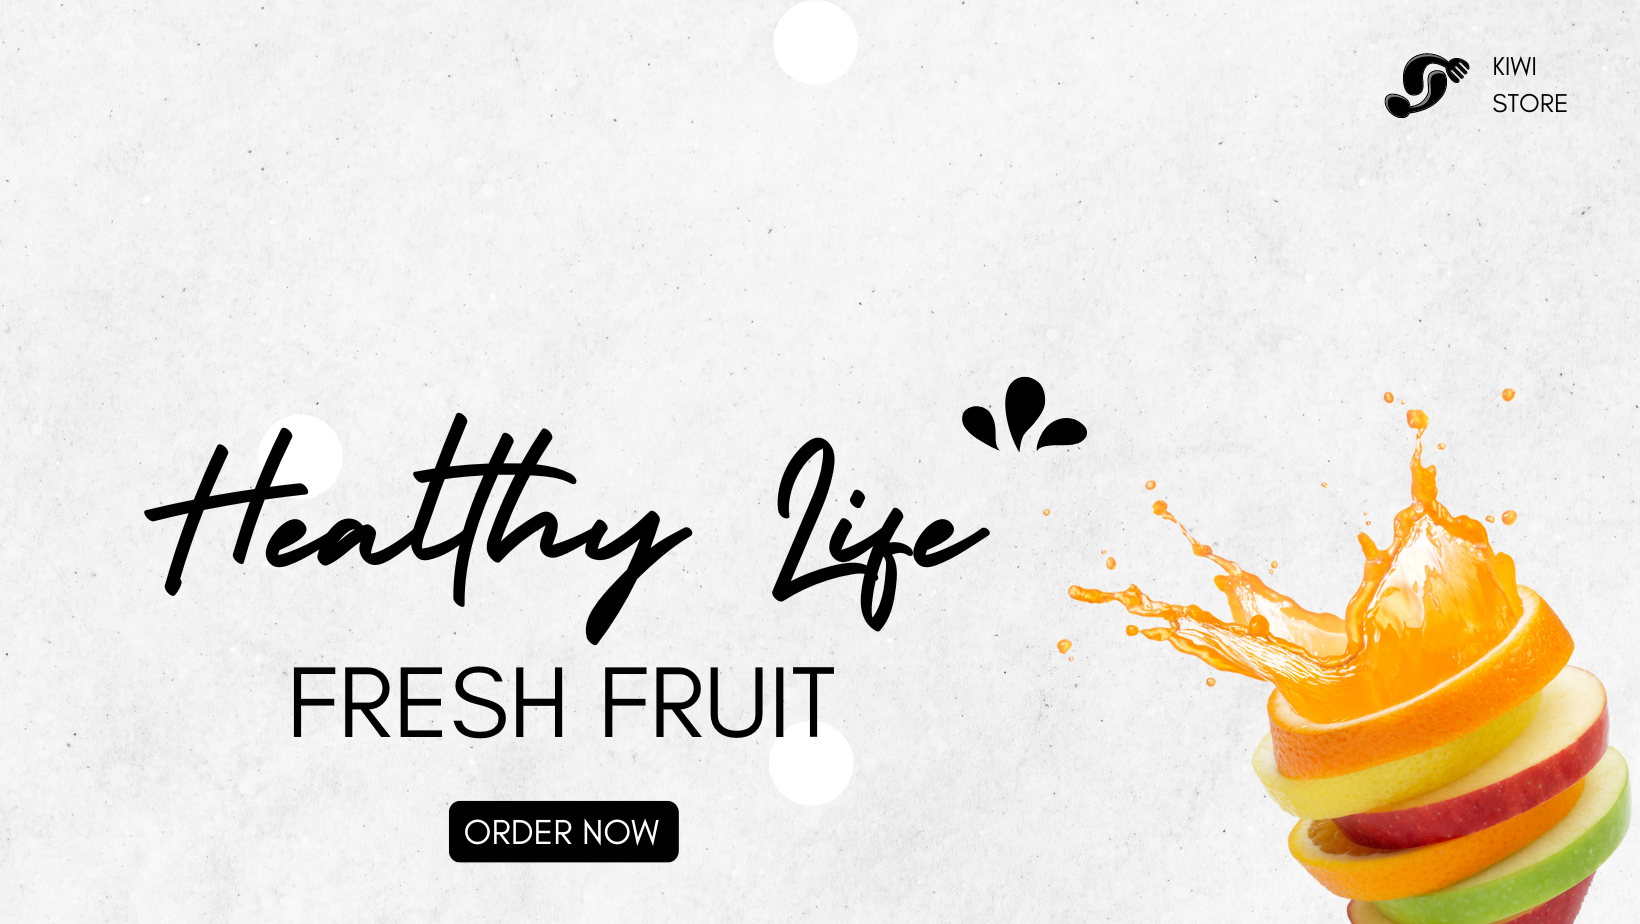
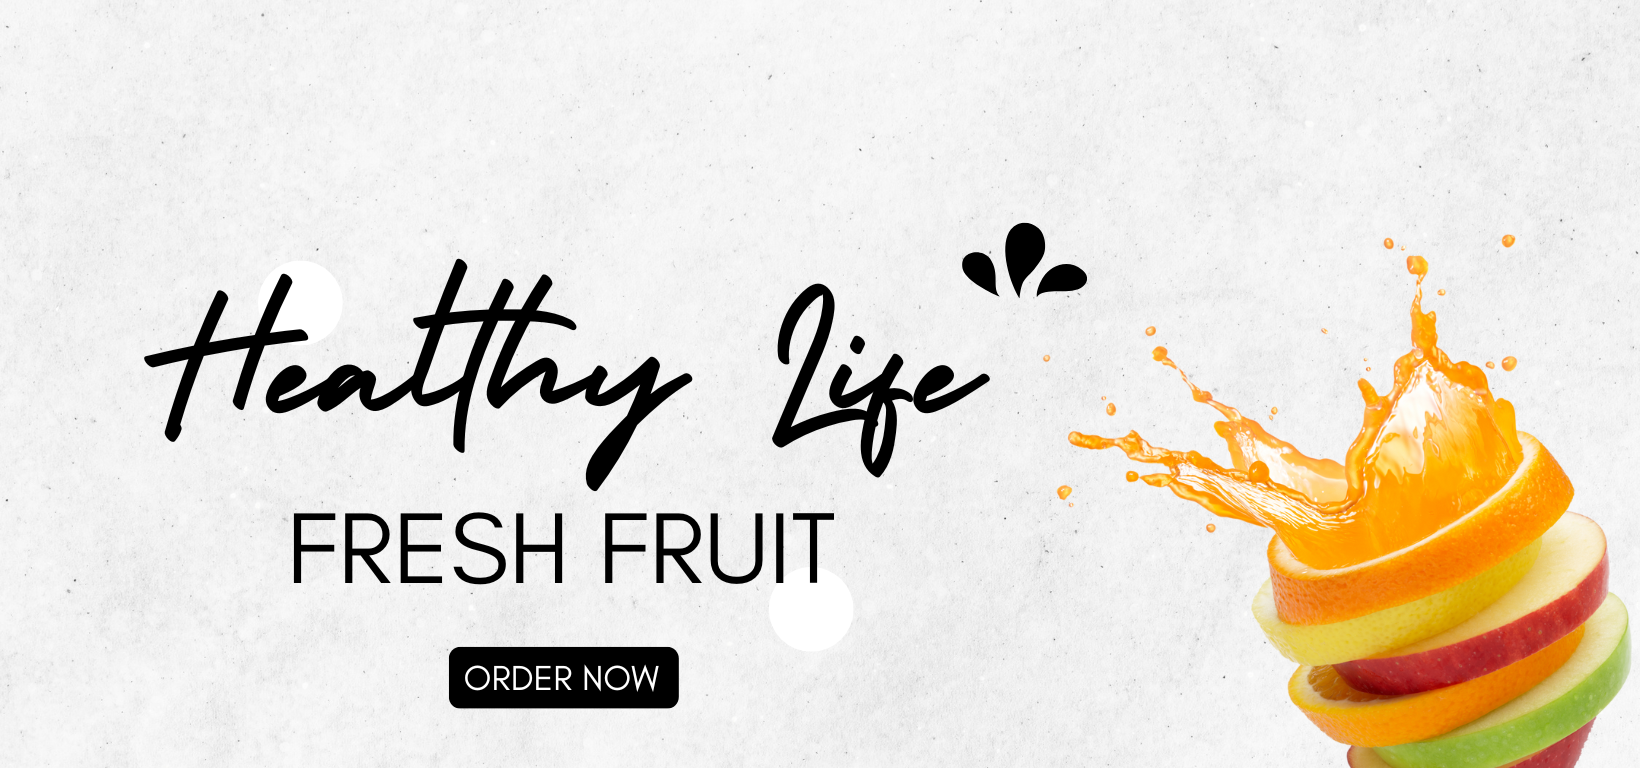
carousel

diff --git a/html/TrangChu.html b/html/TrangChu.html
@@ -43,9 +43,9 @@
                 </div>
             </nav>
             <div class="respon-navbar">
-                <label for="nav-ipad-input" class="menu-btn">  <i class="fa-solid fa-bars"></i></label>
-                <input type="checkbox"class="nav-input" id="nav-ipad-input">
-                <label for="nav-ipad-input"  class="nav-overlay"></label>
+                <label for="nav-ipad-input" class="menu-btn"> <i class="fa-solid fa-bars"></i></label>
+                <input type="checkbox" class="nav-input" id="nav-ipad-input">
+                <label for="nav-ipad-input" class="nav-overlay"></label>
                 <div class="nav-ipad">
                     <label for="nav-ipad-input" class="icon-close"><i class="fa-solid fa-xmark"></i></label>
                     <ul class="navbar_ipad-list">
@@ -57,30 +57,30 @@
             </div>
         </div>
         <div class="wrapper">
-            <!-- <div class="banner">
-                <div class="banner1">
-                    <img src="" alt="">
-                </div>
-                <div class="banner2"></div>
-                <div class="banner3"> </div>
-            </div> -->
-            <div id="carousel-simple" class="carousel slide" data-ride="carousel" >
+            <!-- carousel -->
+            <div id="carousel-simple" class="carousel slide" data-ride="carousel">
                 <ul class="carousel-indicators">
                     <li data-target="#carousel-simple" data-slide-to="0" class="active"></li>
                     <li data-target="#carousel-simple" data-slide-to="1"></li>
                     <li data-target="#carousel-simple" data-slide-to="2"></li>
-                  </ul>
+                </ul>
                 <div class="carousel-inner">
                     <div class="carousel-item active">
-                        <img class="d-block w-100" src="../images/kiwistore.png" alt="" height="600px">
+                        <img class="d-block w-100" src="../images/TrangChu/kiwistore.png" alt="" height="650px">
                     </div>
                     <div class="carousel-item">
-                        <img class="d-block w-100" src="../images/kiwistore1.png" alt="" height="600px">
+                        <img class="d-block w-100" src="../images/TrangChu/kiwistore1.png" alt="" height="650px">
                     </div>
                     <div class="carousel-item">
-                        <img class="d-block w-100" src="../images/kiwistore2.jpg" alt="" height="600px">
+                        <img class="d-block w-100" src="../images/TrangChu/kiwistore2.jpg" alt="" height="650px">
                     </div>
                 </div>
+                <a class="carousel-control-prev" href="#carousel-simple" data-slide="prev">
+                    <span class="carousel-control-prev-icon"></span>
+                </a>
+                <a class="carousel-control-next" href="#carousel-simple" data-slide="next">
+                    <span class="carousel-control-next-icon"></span>
+                </a>
             </div>
             <div class="welcome">
             </div>

diff --git a/html/CuaHang.html b/html/CuaHang.html
@@ -28,13 +28,13 @@
                 <div class="navbar-main-left">
                     <ul class="navbar-main-left-text">
                         <li>
-                            <a href="/html/TrangChu.html" class="text-black">TRANG CHỦ</a>
+                            <a href="../html/TrangChu.html" class="text-black">TRANG CHỦ</a>
                         </li>
                         <li>
-                            <a href="/html/CuaHang.html" class="text-black">CỬA HÀNG</a>
+                            <a href="../html/CuaHang.html" class="text-black">CỬA HÀNG</a>
                         </li>
                         <li>
-                            <a href="/html/LienHe.html" class="text-black">LIÊN HỆ</a>
+                            <a href="../html/LienHe.html" class="text-black">LIÊN HỆ</a>
                         </li>
                     </ul>
                 </div>

diff --git a/css/styleHome.css b/css/styleHome.css
@@ -55,18 +55,6 @@
 }
 
 /* Container */
-/* .container{
-    width: 1440px;
-} */
-
-.banner1 {
-    height: 600px;
-    background-image: url(/images/TrangChu/kiwistore.png);
-    background-position: bottom;
-    background-size: cover;
-    background-repeat: no-repeat;
-    position: relative;
-}
 
 .welcome {
     margin-top: 100px;
